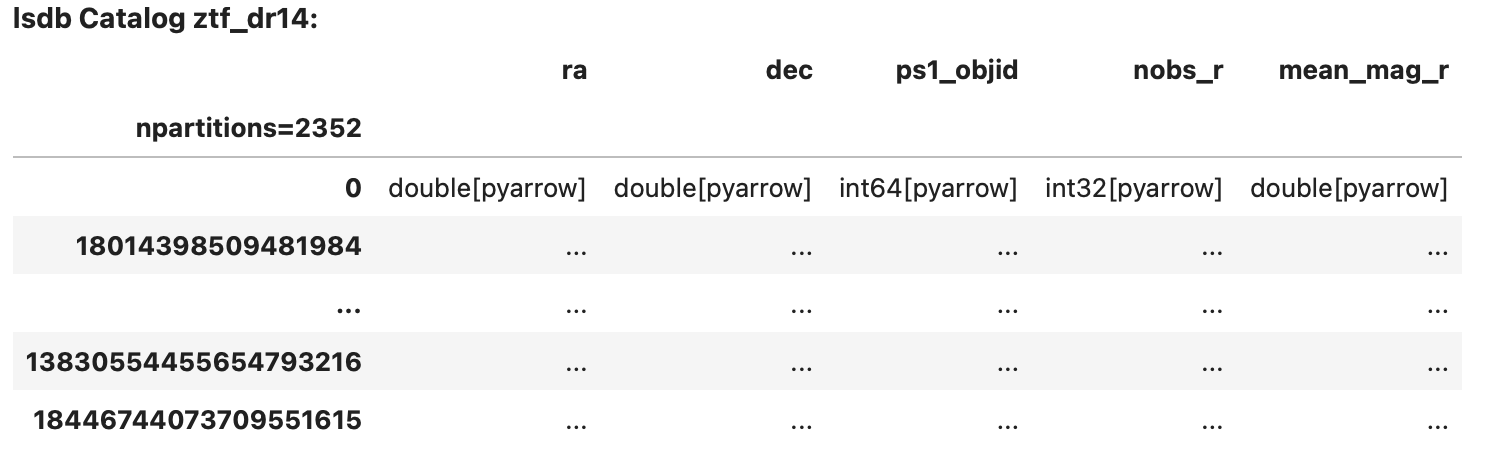
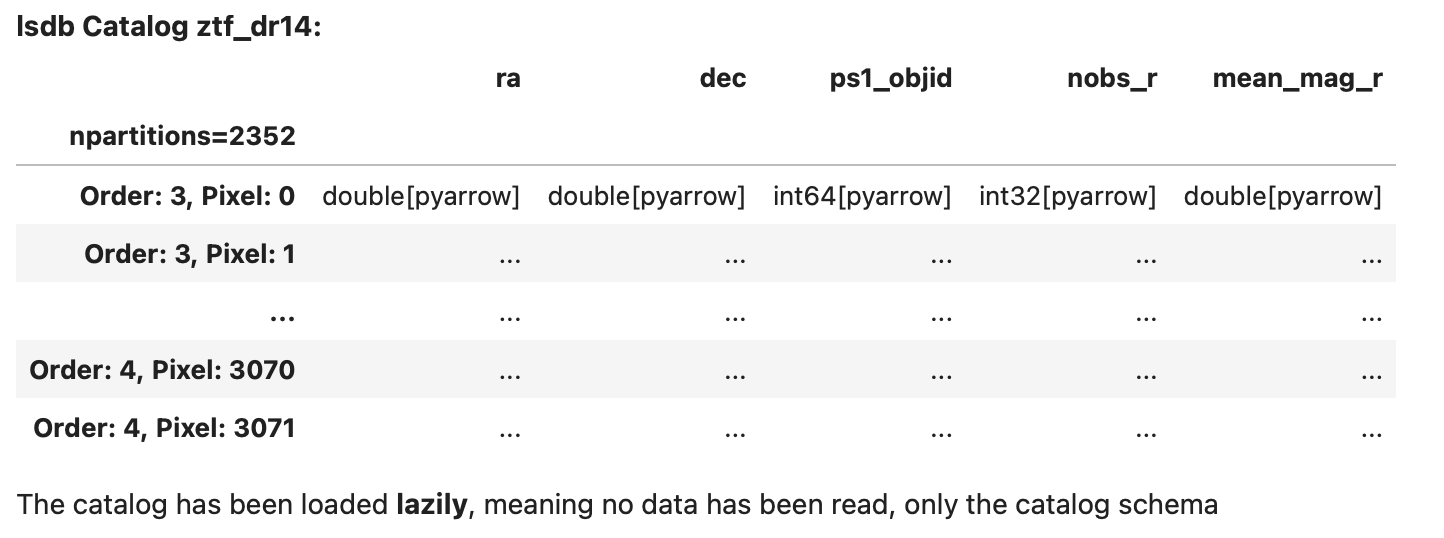
update docs with new catalog repr

diff --git a/docs/getting-started.rst b/docs/getting-started.rst
@@ -123,7 +123,7 @@ of these methods see the full docs for the :func:`Catalog <lsdb.catalog.Catalog>
 
 .. code-block:: python
 
-    ztf_cone = ztf.cone_search(ra=40, dec=30, radius_arcsec=100)
+    ztf_cone = ztf.cone_search(ra=40, dec=30, radius_arcsec=1000)
 
 Other filters on columns can be performed in the same way that you would on a pandas DataFrame.
 
@@ -187,15 +187,15 @@ This creates the following HATS Catalog on disk:
 .. code-block::
 
     ztf_x_gaia/
-    ├── Norder=4/
-    │   ├── Dir=0/
-    │   │   ├── Npix=57.parquet
-    │   │   └── ...
-    │   └── ...
-    ├── _common_metadata
-    ├── _metadata
-    ├── properties
-    └── partition_info.csv
+    ├── dataset
+    │   ├── Norder=4
+    │   │   └── Dir=0
+    │   │       └── Npix=57.parquet
+    │   ├── _common_metadata
+    │   └── _metadata
+    ├── partition_info.csv
+    ├── point_map.fits
+    └── properties
 
 Creation of Jupyter Kernel
 --------------------------
